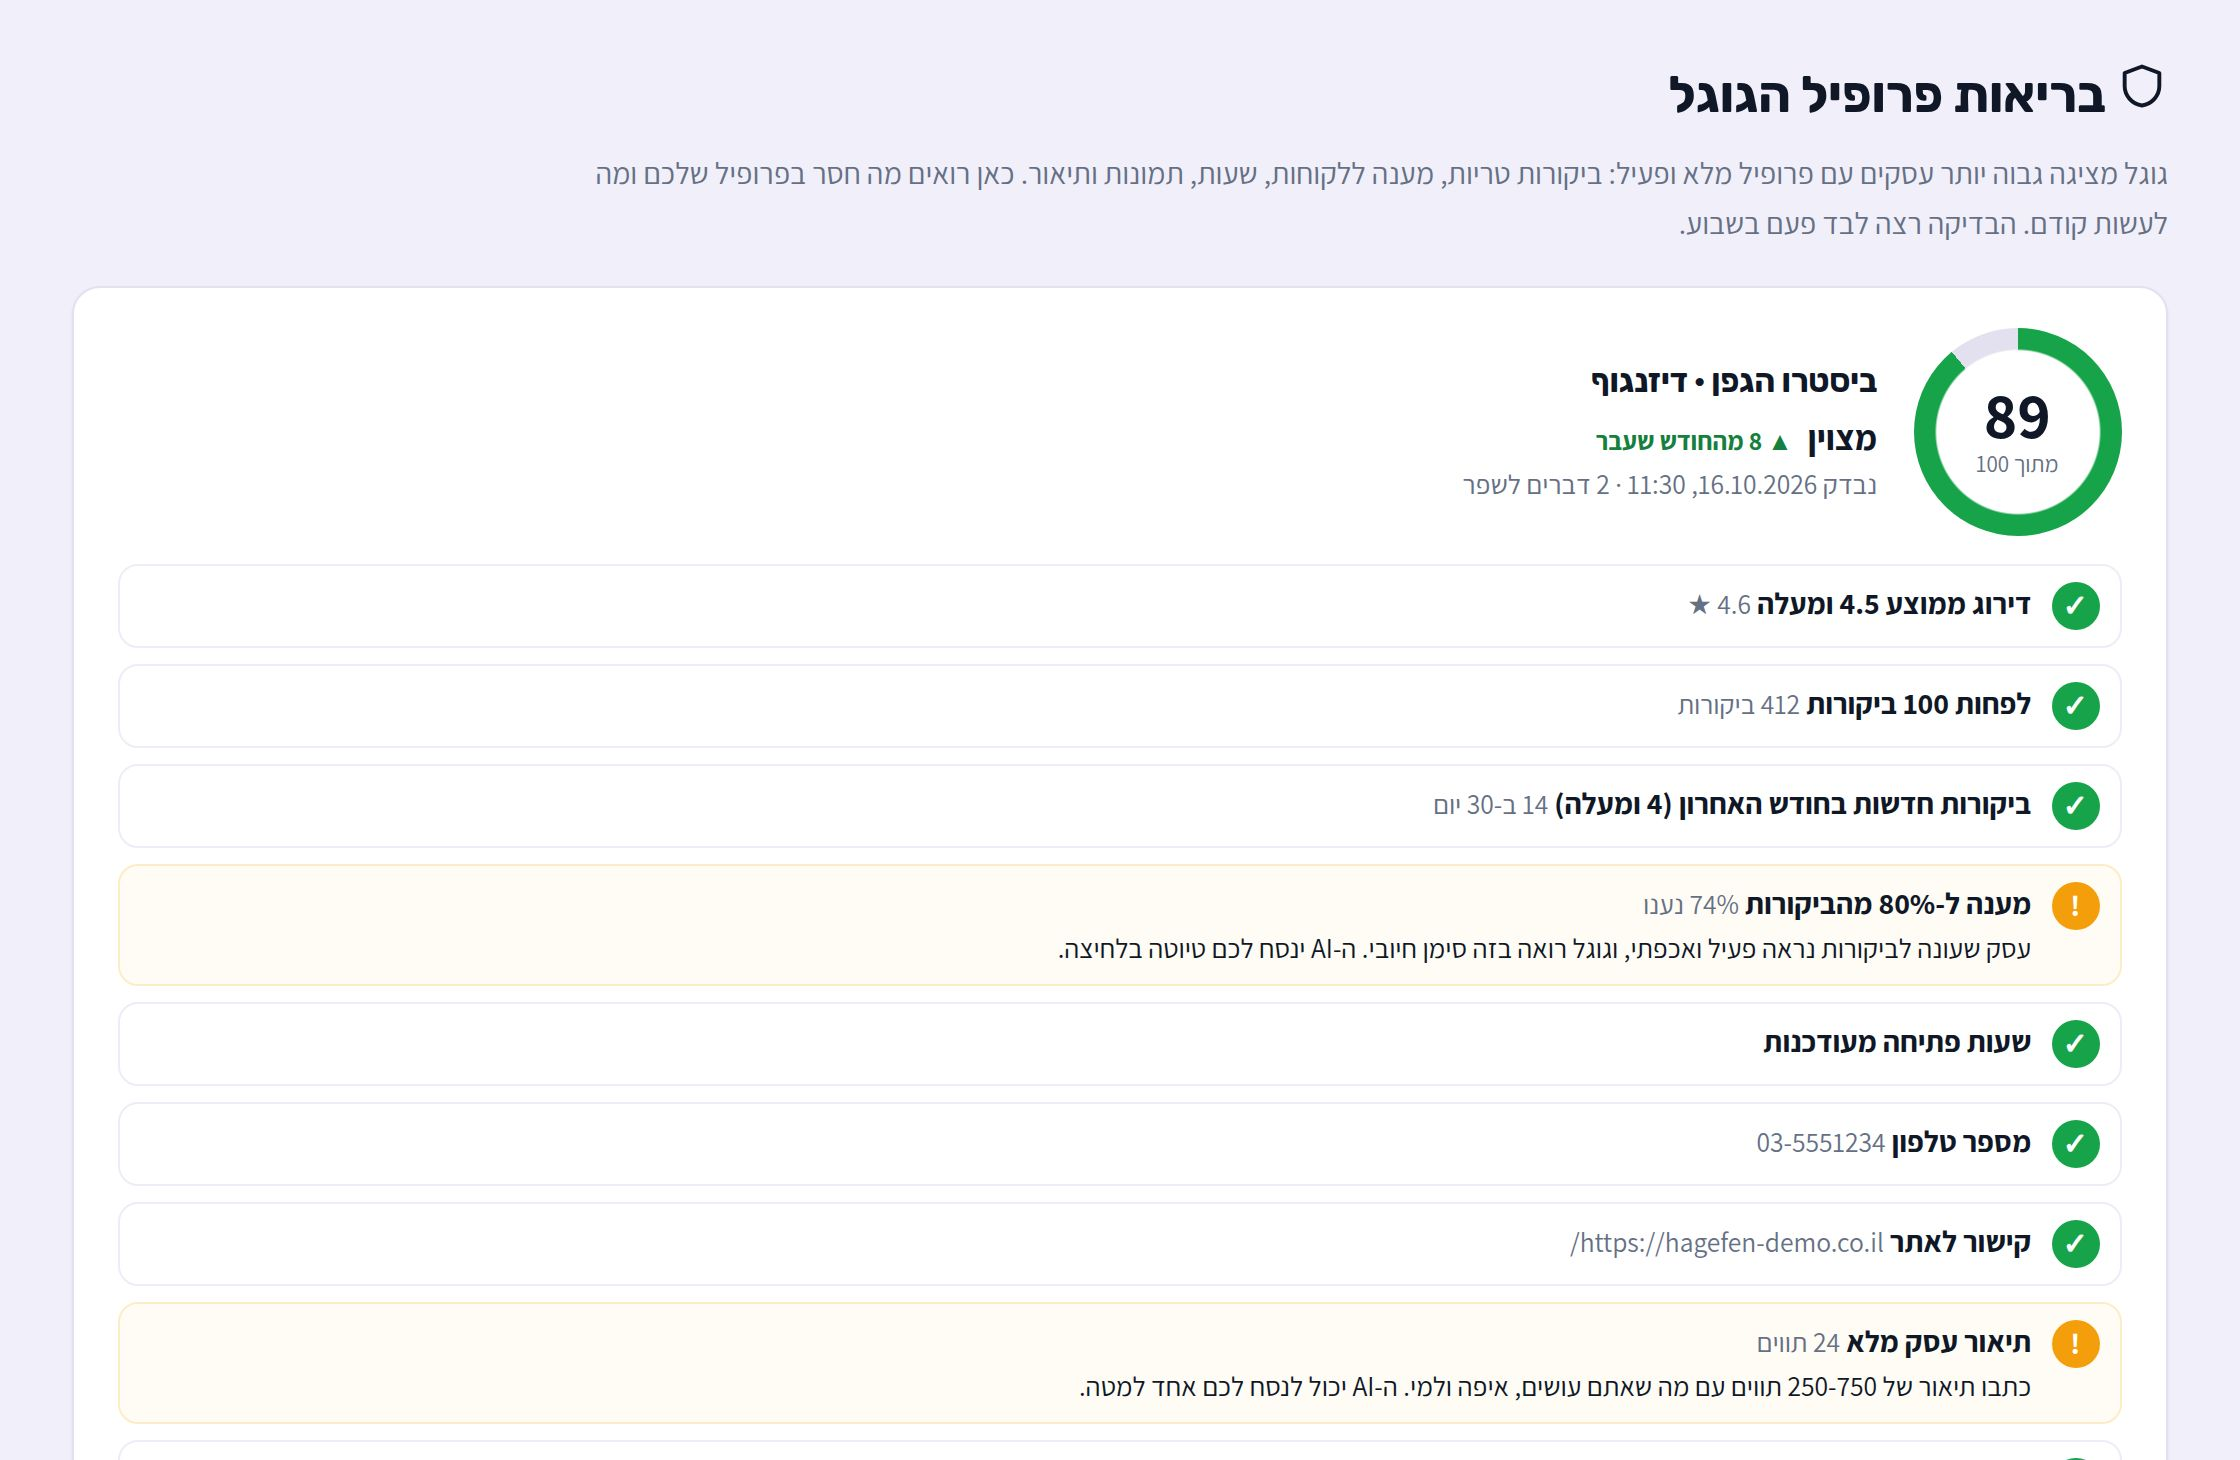
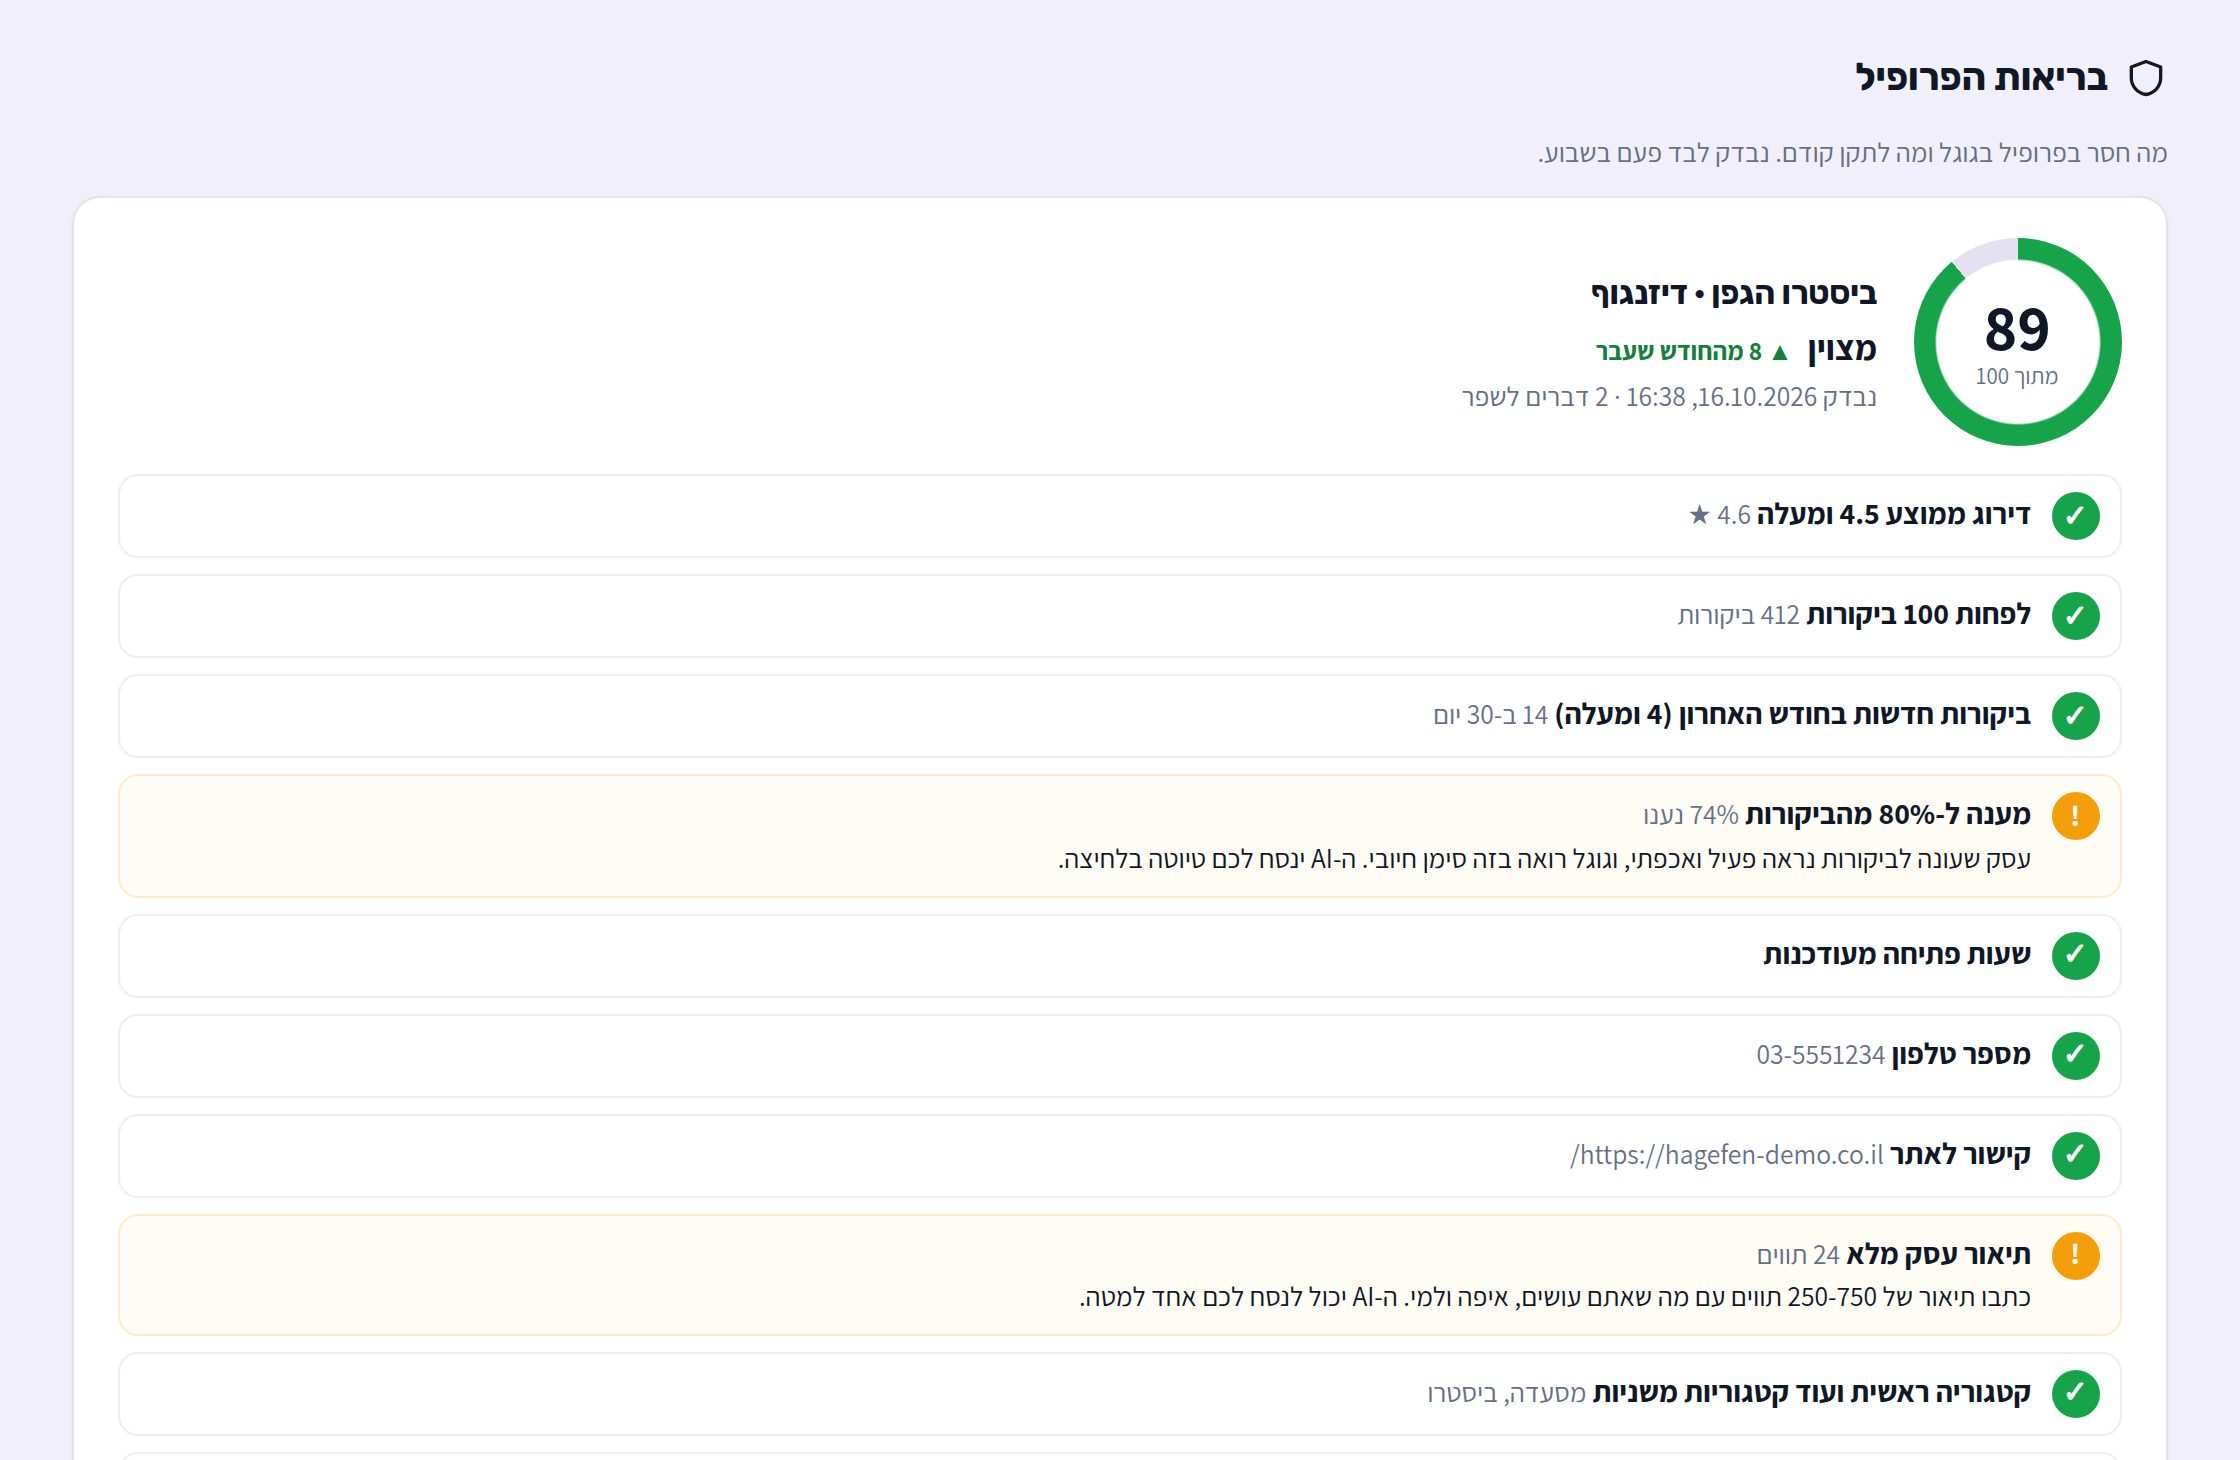
Landing: a short menu, and the maps page in the gallery and the guide
Claude-Session: https://claude.ai/code/session_01MDnwDTcb7MFbwhwXH5wSu9

diff --git a/src/views/site.js b/src/views/site.js
@@ -90,14 +90,10 @@ ${shareMeta({ title, description, path })}
   <a class="brand" href="/">${logoMark(38)}${wordmark(op.brand)}</a>
   <button type="button" class="site-menu-btn" aria-label="תפריט" aria-expanded="false" aria-controls="site-nav"><span></span><span></span><span></span></button>
   <nav id="site-nav" aria-label="ניווט באתר">
-    <a href="/#how">איך זה עובד</a>
-    <a href="/#features">פיצ'רים</a>
-    <a href="/#ai">נראות ב-AI</a>
-    <a href="/#network">רשתות וסניפים</a>
-    <a href="/#video">סרטון</a>
-    <a href="/#screens">צילומי מסך</a>
+    <a href="/#features">מה מקבלים</a>
     <a href="/#pricing">מחירים</a>
-    <a href="/#faq">שאלות</a>
+    <a href="/guide">מדריכים</a>
+    <a href="/#faq">שאלות נפוצות</a>
     <a class="nav-login" href="/login">כניסה לחשבון</a>
   </nav>
   <div class="site-cta">
@@ -212,9 +208,9 @@ function talkForm(sent, error = '', v = {}) {
 const SCREENS = [
   ['dashboard', 'דשבורד', 'כל העסק במסך אחד: דירוג, ביקורות, צפיות, שיחות ומיקום במפות.'],
   ['reviews', 'ביקורות', 'כל הביקורות מגוגל ומהסקרים במקום אחד, עם תשובה מוכנה בלחיצה.'],
+  ['maps', 'קידום במפות', 'תוכנית קצרה לכל שבוע: מה לתקן בפרופיל ומה לעשות כדי לעלות בגוגל מפות.'],
   ['rank', 'מיקום במפות', 'איפה אתם מופיעים בגוגל מפות בכל שכונה, מול המתחרים.'],
   ['ai', 'נראות ב-AI', 'האם ChatGPT, Gemini וגוגל ממליצים עליכם, ומה לעשות כדי שכן.'],
-  ['health', 'בריאות הפרופיל', 'ציון לפרופיל בגוגל ורשימת תיקונים לפי סדר חשיבות.'],
   ['report', 'דוח חודשי', 'דוח מסודר בכל חודש, להדפסה או לשליחה.'],
 ];
 

diff --git a/src/guide.js b/src/guide.js
@@ -138,6 +138,19 @@ export const FEATURE_GUIDES = [
     ],
   },
   {
+    slug: 'maps',
+    group: 'profile',
+    title: 'קידום בגוגל מפות',
+    summary: 'תוכנית קצרה לכל שבוע, כדי לעלות במפות.',
+    image: 'maps.jpg',
+    link: '/admin/maps',
+    points: [
+      'בראש העמוד: ציון בריאות הפרופיל והמיקום הממוצע שלכם במפות.',
+      '"מה לעשות השבוע": עד חמישה צעדים שנבנים מהנתונים שלכם, למשל מה חסר בפרופיל, כמה ביקורות חסרות לעומת המוביל באזור, ובאיזה כיוון אתם חלשים.',
+      'מסמנים "בוצע" על מה שעשיתם, ובשבוע הבא מגיעה רשימה חדשה. למטה בעמוד: המיקום במפות ובריאות הפרופיל בפירוט.',
+    ],
+  },
+  {
     slug: 'health',
     group: 'profile',
     title: 'בריאות הפרופיל',
@@ -147,7 +160,7 @@ export const FEATURE_GUIDES = [
     points: [
       'המערכת בודקת את הפרופיל: שעות, תמונות, תיאור, קטגוריות, טלפון, אתר ועוד.',
       'כל מה שחסר מופיע עם הסבר קצר מה לעשות. מה שתוקן מסומן בירוק.',
-      'הבדיקה רצה לבד כל שבוע, וגם בלחיצה על "בדיקה עכשיו".',
+      'הבדיקה רצה לבד כל שבוע, וגם בלחיצה על "בדיקת פרופיל" בעמוד קידום במפות.',
     ],
   },
   {
